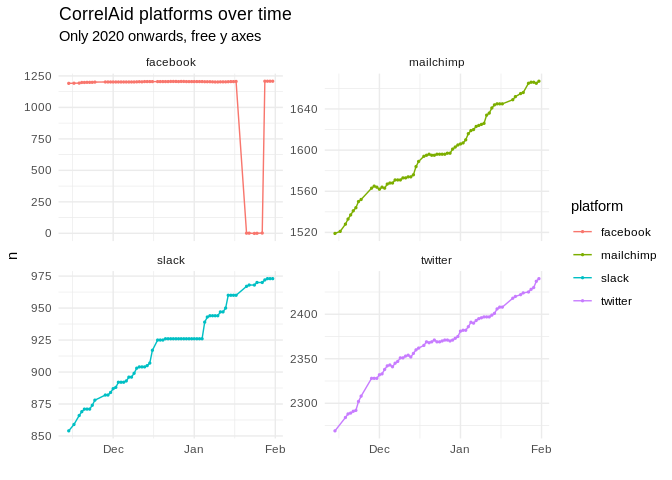
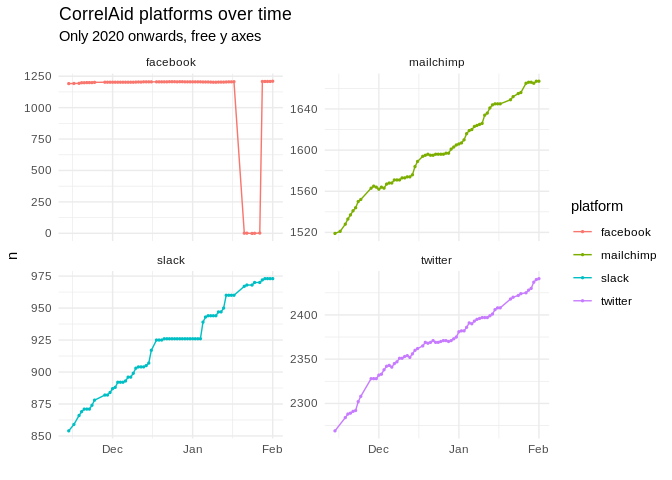
🤖 CRON - update daily data

diff --git a/README.md b/README.md
@@ -25,8 +25,8 @@ count and general network data on a daily basis using
 
 ### Plots
 
-*last updated*: 2021-01-31
-23:50:12
+*last updated*: 2021-02-01
+23:50:13
 
 ![](README_files/figure-gfm/plot-alltime-1.png)<!-- -->
 
